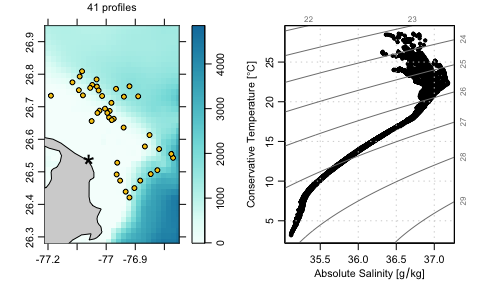
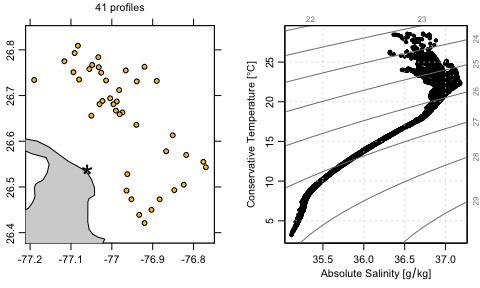
address review 2

diff --git a/README.md b/README.md
@@ -83,12 +83,15 @@ necessary.
 library(argoFloats)
 library(oce)
 #> Loading required package: gsw
+#> Loading required package: sf
+#> Linking to GEOS 3.9.1, GDAL 3.3.1, PROJ 7.2.1
+#> Loading required package: testthat
 ## 1. Get worldwide float-profile index, saving to ~/data/argo by default.
 indexAll <- getIndex()
 ## 2. Narrow to a 30km-radius circle centred on Abaco Island, The Bahamas.
 index <- subset(indexAll,
                 circle=list(longitude=-77.06,latitude=26.54,radius=30))
-#> Kept 41 cycles (0.00164%)
+#> Kept 41 cycles (0.00163%)
 ## 3. Get NetCDF files for these profiles, saving to ~/data/argo by default.
 profiles  <- getProfiles(index)
 ## 4. Read the NetCDF files.
@@ -107,14 +110,21 @@ argos <- readProfiles(profiles)
 #>     3 7 13
 ## 5. Examine QC flags, and set questionable data to NA.
 argosClean <- applyQC(argos)
+oldpar <- par(no.readonly=TRUE)
 par(mfrow=c(1, 2))                     # want two-panel plot
-par(mar=c(3.5, 3.5, 2.0, 2.0))         # tighten margins
-## 6. Plot a map with bathymetry, indicating number of profiles.
-plot(index, which="map")
+par(mar=c(3.5, 2.0, 2.0, 2.0))         # maps do not get axis names
+par(mgp=c(2,0.7,0))                    # tighten axes
+## 6. Plot a map of profile locations.
+plot(index, which="map", bathymetry=FALSE)
 points(-77.06, 26.54, pch="*", cex=3)  # show centre of focus
 mtext(paste(argosClean[["length"]], "profiles"), line=1.0)
 ## 7. Plot a TS diagram
+par(mar=c(3.5, 3.5, 2.0, 1.0))         # increase left margin for name
 plot(argosClean, which="TS")
 ```
 
 <img src="man/figures/README-unnamed-chunk-4-1.png" width="80%" />
+
+``` r
+par(oldpar)
+```

diff --git a/cran-comments.md b/cran-comments.md
@@ -9,11 +9,14 @@
 
 * Release status: revision to first submission (details follow)
 
-# Changes since first CRAN submission
+# Changes since first two CRAN submissions
 
-In response to Julia Haider's informative and helpful review of argoFloats
-version 1.0.0, the following changes were made, yielding version 1.0.1, which
-is being submitted now.
+This is the third submission.  Our first submission was numbered 1.0.0, our
+second 1.0.1, and our third (the present one) 1.0.2.
+
+We are indebted to Julia Haider and Gregor Seyer, whose helpful and informative
+reviews led to changes as summarized below (items 1 through 5 being in response
+to JH, and item 6 being in response to GS).
 
 1. The DESCRIPTION no longer starts with "The argoFloats package", and its
    literature citation is now in the suggested format.
@@ -42,4 +45,9 @@ is being submitted now.
 
 5. The plotting functions now use on.exit() to reset par() values, so that the
    user's values for par("mar"), etc., are not altered by the plot() call.
+
+6. Examples and vignettes reset par() values to their initial state. (GS also
+   commented on options(), but the package does not set those, except in tests,
+   where setting and checking is part of the test.)
+
 

diff --git a/NEWS.md b/NEWS.md
@@ -1,5 +1,13 @@
 # argoFloats (development version)
 
+## argoFloats 1.0.2
+
+* Examples now reset par() values to their initial states.
+
+## argoFloats 1.0.1
+
+* Functions now reset par() values to their initial states.
+
 ## argoFloats 1.0.0
 
 * Improve documentation for a CRAN release
